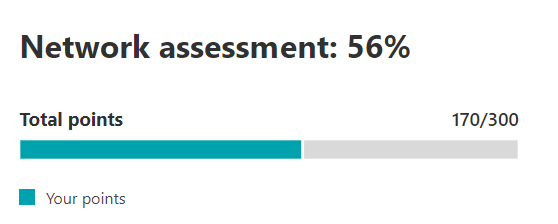
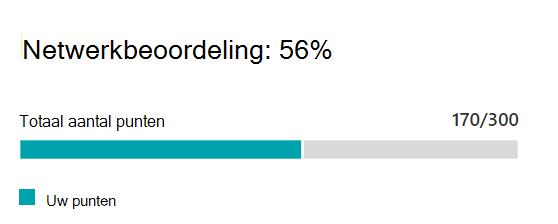
commit translated contents

Changed region(s): [[0.0305, 0.1562, 0.7616, 0.2812], [0.0305, 0.5, 0.3047, 0.5938], [0.0609, 0.875, 0.2437, 0.9375]]

diff --git a/microsoft-365/compliance/endpoint-dlp-getting-started.md b/microsoft-365/compliance/endpoint-dlp-getting-started.md
@@ -19,12 +19,12 @@ ms.collection:
 search.appverid:
 - MET150
 description: Stel Microsoft 365 Preventie van gegevensverlies voor eindpunten in om bestandsactiviteiten te controleren en beschermende maatregelen voor deze bestanden naar eindpunten te implementeren.
-ms.openlocfilehash: 8fc8bef62827a5e6125565f5d7227a88cd923dcf
-ms.sourcegitcommit: 967f64dfa1a05f31179c8316b96bfb7758a5d990
+ms.openlocfilehash: a6c0ec6f1248fdeecd8616b7eda000b7608d452d
+ms.sourcegitcommit: 07e536f1a6e335f114da55048844e4a866fe731b
 ms.translationtype: HT
 ms.contentlocale: nl-NL
-ms.lasthandoff: 05/12/2021
-ms.locfileid: "52332808"
+ms.lasthandoff: 05/25/2021
+ms.locfileid: "52651006"
 ---
 # <a name="get-started-with-endpoint-data-loss-prevention"></a>Aan de slag met Preventie van gegevensverlies voor eindpunten
 
@@ -40,8 +40,8 @@ Voordat u aan de slag gaat met DLP voor eindpunten, moet u uw [abonnement op Mic
 
 - Microsoft 365 E5
 - Microsoft 365 A5 (EDU)
-- Microsoft 365 E5 compliance
-- Microsoft 365 A5 compliance
+- Microsoft 365 E5 Compliance
+- Microsoft 365 A5 Compliance
 - Microsoft 365 E5 Information Protection en governance
 - Microsoft 365 A5 Information Protection en governance
 
@@ -74,10 +74,10 @@ Als u een aangepast account wilt gebruiken om Apparaatcontrole in te schakelen o
 Gegevens uit DLP voor eindpunten kunnen worden weergegeven in [Activiteitenverkenner](data-classification-activity-explorer.md). Er zijn vier rollen die machtigingen verlenen aan Activiteitenverkenner. Het account dat u gebruikt voor het openen van de gegevens, moet lid zijn van een van deze rollen.
 
 - Bedrijfsbeheerder
-- Compliancebeheerder
+- Beheerder voor naleving
 - Beveiligingsbeheerder
-- Beheerder van compliancegegevens
-- Globale lezer
+- Gegevensbeheerder voor naleving
+- Algemene lezer
 - Beveiligingslezer
 - Rapportenlezer
 
@@ -102,7 +102,11 @@ Zorg ervoor dat de Windows 10-apparaten die u van plan bent in DLP voor eindpunt
     - Voor Windows 10 2004 - KB4568831, KB4577063
     - Voor apparaten met Office 2016 (en geen andere Office-versie) - KB4577063 
 
-4. Alle apparaten moeten [Azure Active Directory-gekoppeld zijn (Azure AD)](/azure/active-directory/devices/concept-azure-ad-join), AD-gekoppeld, Hybride Azure AD-gekoppeld of AAD-geregistreerd zijn.
+4. Alle apparaten moeten tot een van de volgende behoren:
+- [Azure Active Directory (Azure AD)-gekoppeld](/azure/active-directory/devices/concept-azure-ad-join)
+- AD-gekoppeld
+- [Hybride Azure AD-gekoppeld](/azure/active-directory/devices/concept-azure-ad-join-hybrid)
+- [AAD-geregistreerd](/azure/active-directory/user-help/user-help-register-device-on-network)
 
 5. Installeer de browser Microsoft Chromium Edge op het eindpuntapparaat om beleidsacties af te dwingen voor het uploaden naar cloudactiviteit. Zie [Nieuwe Microsoft Edge op basis van Chromium downloaden](https://support.microsoft.com/help/4501095/download-the-new-microsoft-edge-based-on-chromium).
 
@@ -203,7 +207,7 @@ Wanneer dit is gedaan en het eindpunt is onboarded, moet dit zichtbaar zijn in d
 ## <a name="next-steps"></a>Volgende stappen
 Nu u onboarded-apparaten hebt en de activiteitsgegevens kunt bekijken in Activiteitenverkenner, kunt u verder gaan met de volgende stap, waarin u DLP-beleid maakt voor het beveiligen van uw gevoelige items.
 
-- [Preventie van gegevensverlies voor eindpunten gebruiken](endpoint-dlp-using.md)
+- [Preventie van gegevensverlies van eindpunten gebruiken](endpoint-dlp-using.md)
 
 ## <a name="see-also"></a>Zie ook
 
@@ -211,7 +215,7 @@ Nu u onboarded-apparaten hebt en de activiteitsgegevens kunt bekijken in Activit
 - [Preventie van gegevensverlies voor eindpunten gebruiken](endpoint-dlp-using.md)
 - [Meer informatie over preventie van gegevensverlies](dlp-learn-about-dlp.md)
 - [Een DLP-beleid maken, testen en afstemmen](create-test-tune-dlp-policy.md)
-- [Aan de slag met de activiteitenverkenner](data-classification-activity-explorer.md)
+- [Aan de slag met Activity Explorer](data-classification-activity-explorer.md)
 - [Microsoft Defender voor Eindpunt](/windows/security/threat-protection/)
 - [Hulpmiddelen en methoden onboarden voor Windows 10-apparaten](/windows/security/threat-protection/microsoft-defender-atp/configure-endpoints)
 - [Microsoft 365-abonnement](https://www.microsoft.com/microsoft-365/compare-microsoft-365-enterprise-plans?rtc=1)

diff --git a/microsoft-365/enterprise/urls-and-ip-address-ranges.md b/microsoft-365/enterprise/urls-and-ip-address-ranges.md
@@ -3,7 +3,7 @@ title: Office 365-URL's en IP-adresbereiken
 ms.author: kvice
 author: kelleyvice-msft
 manager: laurawi
-ms.date: 04/29/2021
+ms.date: 05/19/2021
 audience: Admin
 ms.topic: conceptual
 ms.service: o365-administration
@@ -22,14 +22,14 @@ search.appverid:
 - MOM160
 - BCS160
 ms.assetid: 8548a211-3fe7-47cb-abb1-355ea5aa88a2
-description: 'Overzicht: Office 365 vereist verbinding met internet. De volgende eindpunten moeten bereikbaar zijn voor klanten die gebruikmaken van Office 365-abonnementen, waaronder Government Community Cloud (GCC).'
+description: 'Samenvatting: Voor Office 365 is verbinding met internet vereist. De volgende eindpunten moeten bereikbaar zijn voor klanten die gebruikmaken van Office 365-abonnementen, waaronder Government Community Cloud (GCC).'
 hideEdit: true
-ms.openlocfilehash: 14f4b4097e905c7d63bde472a6a39d4ba59ae184
-ms.sourcegitcommit: ff20f5b4e3268c7c98a84fb1cbe7db7151596b6d
+ms.openlocfilehash: 65e69465c56b3c7da63ca5cdcc1287c4794f199c
+ms.sourcegitcommit: 07e536f1a6e335f114da55048844e4a866fe731b
 ms.translationtype: HT
 ms.contentlocale: nl-NL
-ms.lasthandoff: 05/06/2021
-ms.locfileid: "52245754"
+ms.lasthandoff: 05/25/2021
+ms.locfileid: "52651258"
 ---
 # <a name="office-365-urls-and-ip-address-ranges"></a>Office 365-URL's en IP-adresbereiken
 
@@ -39,7 +39,7 @@ Office 365 vereist verbinding met internet. De volgende eindpunten moeten bereik
 
 ||||
 |:-----|:-----|:-----|
-|**Laatst bijgewerkt:** 29-04-2021 - ![RSS](../media/5dc6bb29-25db-4f44-9580-77c735492c4b.png) [Abonnement op wijzigingenlogboek](https://endpoints.office.com/version/worldwide?allversions=true&format=rss&clientrequestid=b10c5ed1-bad1-445f-b386-b919946339a7) <br/> |**Downloaden:** alle vereiste en optionele bestemmingen in één lijst in [JSON-indeling](https://endpoints.office.com/endpoints/worldwide?clientrequestid=b10c5ed1-bad1-445f-b386-b919946339a7).  <br/> | **Gebruik:** onze proxy-[PAC-bestanden](managing-office-365-endpoints.md#pacfiles) <br/> |
+|**Laatst bijgewerkt:** 19-05-2021 - ![RSS](../media/5dc6bb29-25db-4f44-9580-77c735492c4b.png) [Abonnement op wijzigingenlogboek](https://endpoints.office.com/version/worldwide?allversions=true&format=rss&clientrequestid=b10c5ed1-bad1-445f-b386-b919946339a7) <br/> |**Downloaden:** alle vereiste en optionele bestemmingen in één lijst in [JSON-indeling](https://endpoints.office.com/endpoints/worldwide?clientrequestid=b10c5ed1-bad1-445f-b386-b919946339a7).  <br/> | **Gebruik:** onze proxy-[PAC-bestanden](managing-office-365-endpoints.md#pacfiles) <br/> |
 
  Begin met [Het beheren van Office 365-eindpunten](managing-office-365-endpoints.md) om onze aanbevelingen voor het beheren van netwerkverbindingen met deze gegevens te begrijpen. Eindpuntgegevens worden aan het begin van elke maand bijgewerkt zoals vereist met nieuwe IP-adressen en URL's die worden gepubliceerd 30 dagen voordat ze actief worden. Dit maakt het voor klanten die nog geen geautomatiseerde updates hebben mogelijk om hun processen te voltooien voordat er een nieuwe verbinding is vereist. Eindpuntgegevens kunnen ook gedurende de maand worden bijgewerkt indien nodig om escalaties van ondersteuningen, beveiligingsincidenten of andere directe operationele vereisten aan te pakken. De gegevens die op deze pagina worden weergegeven, zijn allemaal gegenereerd op basis van de REST-webservice. Als u gebruikmaakt van een script of netwerkapparaat voor toegang tot deze gegevens, gaat u rechtstreeks naar de [Webservice](microsoft-365-ip-web-service.md).
 

diff --git a/microsoft-365/compliance/dlp-sensitivity-label-as-condition.md b/microsoft-365/compliance/dlp-sensitivity-label-as-condition.md
@@ -20,12 +20,12 @@ search.appverid:
 ms.custom:
 - seo-marvel-apr2020
 description: meer informatie over de services en itemtypen waarvoor u gevoeligheidslabels kunt gebruiken als voorwaarden in DLP-beleid
-ms.openlocfilehash: 19bd80de225f703b5c280163e94826498fa097bd
-ms.sourcegitcommit: 2655bb0ccd66279c35be2fadbd893c937d084109
+ms.openlocfilehash: b33e6704a3311740c1e386f77f1c751382ee6958
+ms.sourcegitcommit: 07e536f1a6e335f114da55048844e4a866fe731b
 ms.translationtype: HT
 ms.contentlocale: nl-NL
-ms.lasthandoff: 04/16/2021
-ms.locfileid: "52162686"
+ms.lasthandoff: 05/25/2021
+ms.locfileid: "52651090"
 ---
 # <a name="use-sensitivity-labels-as-conditions-in-dlp-policies"></a>Vertrouwelijkheidslabels gebruiken als voorwaarden in DLP-beleid
 
@@ -54,7 +54,7 @@ U kunt gevoeligheidslabels gebruiken als voorwaarden op deze items en in deze sc
 |Service  |Itemtype  |Beschikbaar voor beleidstip  |Afdwingbaar  |
 |---------|---------|---------|---------|
 |Exchange    |e-mailbericht         |ja         |ja         |
-|Exchange    |e-mailbijlage         |nee *         |ja *         |
+|Exchange    |e-mailbijlage         |nee         |ja *         |
 |SharePoint Online     |items in SharePoint Online         |ja         |ja         |
 |OneDrive voor Bedrijven     |items         |ja         |ja         |
 |Teams     |Teams en kanaalberichten         |niet van toepassing         |niet van toepassing         |
@@ -62,7 +62,7 @@ U kunt gevoeligheidslabels gebruiken als voorwaarden op deze items en in deze sc
 |Windows 10-apparaten     |items         |ja         |ja         |
 |MCAS (preview-versie) |items         |ja         |ja         |
 
-\* Tijdens het verzenden worden DLP-detectie en afdwinging van gevoeligheidslabels in e-mailberichten en bijlagen ondersteund. DLP-beleidstips van e-mailbijlagen met gevoeligheidslabels worden niet ondersteund.
+\* DLP-detectie van e-mailbijlagen die als vertrouwelijk zijn gemarkeerd, wordt alleen ondersteund voor Office-bestandstypen.
 
 \** Bijlagen die via een privéchat of kanalen in Teams worden verzonden, worden automatisch geüpload naar OneDrive voor Bedrijven en SharePoint. Dus als SharePoint Online of OneDrive voor Bedrijven als locaties zijn opgenomen in uw DLP-beleid, worden gelabelde bijlagen die worden verzonden in Teams automatisch opgenomen in het bereik van deze voorwaarde. Teams als locatie hoeft niet te zijn geselecteerd in het DLP-beleid.
 
